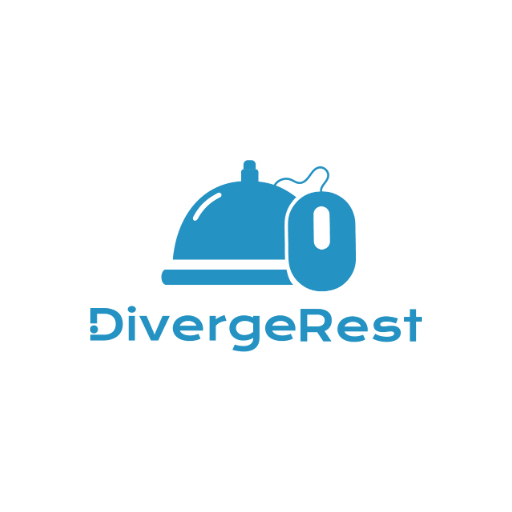
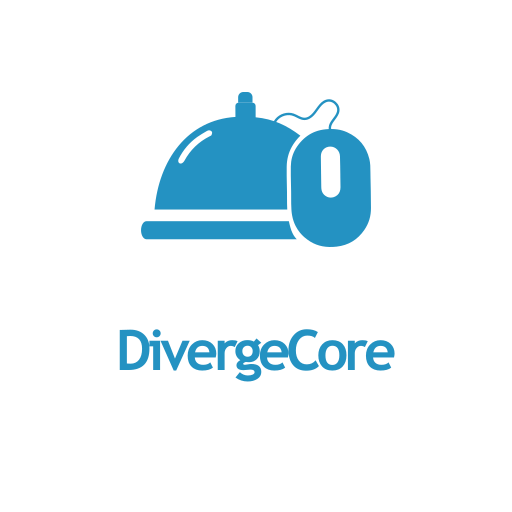
feat: update branding from 'DivergeRest' to 'DivergeCore' across multiple files

Changed region(s): [[0.1562, 0.1562, 0.8125, 0.75]]

diff --git a/index.html b/index.html
@@ -8,15 +8,16 @@
             content="width=device-width, initial-scale=1.0, maximum-scale=1.0, user-scalable=no"
         />
         <link rel="manifest" href="/manifest.json" />
+        <meta name="description" content="Gestiona tu negocio con eficiencia" />
 
         <!-- Modos para móvil (Nativo feel) -->
         <meta name="theme-color" content="#2492c2" />
         <meta name="mobile-web-app-capable" content="yes" />
         <meta name="apple-mobile-web-app-status-bar-style" content="black-translucent" />
-        <meta name="apple-mobile-web-app-title" content="ITD ERP" />
+        <meta name="apple-mobile-web-app-title" content="DivergeCore" />
         <link rel="apple-touch-icon" href="/icon.png" />
 
-        <title>DivergeRest</title>
+        <title>DivergeCore</title>
 
         <link
             rel="stylesheet"

diff --git a/src/router/index.js b/src/router/index.js
@@ -4,13 +4,13 @@ const routes = [
     {
         path: '/signin',
         name: 'SignIn',
-        meta: { title: 'DivergeRest - Sign In' },
+        meta: { title: 'DivergeCore - Iniciar sesión' },
         component: () => import('@/views/_signin/SignIn.vue'),
     },
     {
         path: '/consola',
         name: 'ConsolaView',
-        meta: { title: 'DivergeRest - Consola' },
+        meta: { title: 'DivergeCore - Consola' },
         component: () => import('@/views/_consola/ConsolaView.vue'),
     },
 ]

diff --git a/src/pinia/auth.js b/src/pinia/auth.js
@@ -273,7 +273,7 @@ export const useAuth = defineStore('auth', {
             })
 
             this.socket.on('printer_agent_socket_not_found', () => {
-                jmsg('error', 'DivergeRest Printer no iniciado')
+                jmsg('error', 'DivergeCore Printer no iniciado')
             })
 
             // --- Articulos --- //
